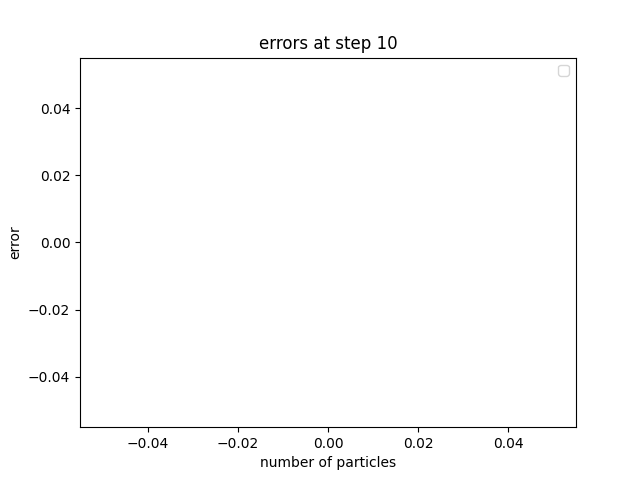
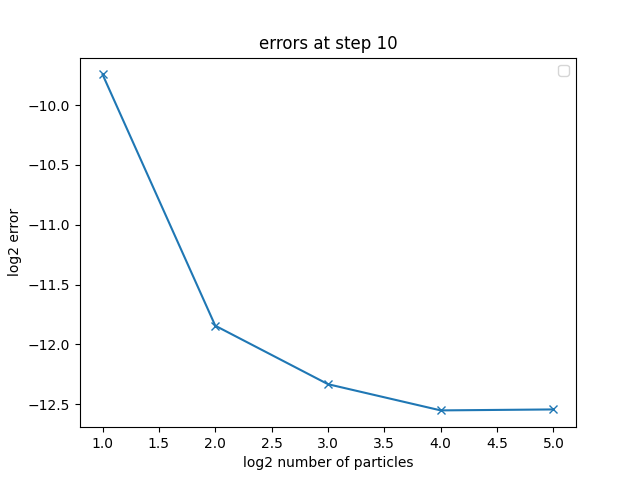
added more complex initial condition

diff --git a/config.py b/config.py
@@ -2,10 +2,12 @@
 
 import numpy as np
 from dataclasses import dataclass
+from math import pi, sin
+from utils.diagnostics import diagnostics
 
 ### grid ######################################################################
 # number of particles in the x and y dimension
-no_particles_x = 40
+no_particles_x = 10
 no_particles_y = no_particles_x
 
 # interval where the x and y dimension are contained
@@ -21,7 +23,33 @@ border = 2
 
 # number of layers that the border has, spaced with same spacing as
 # inside particles
-border_thickness = 0
+border_thickness = 1
+
+
+# can be used to throw an arbitrary border condition onto the border
+def set_border(x, y):
+    # bottom or left border, set to 0
+    if (x <= -border) or (y <= -border):
+        result = 0.0
+
+    # edge at then end, set to 1
+    elif (x > border) and (y > border):
+        result = 1.0
+
+    # border on the right, put sine there
+    elif (x > border):
+        result = sin(pi/(4*border) * y + pi/4)
+
+    # border at the top, put another sine there
+    elif (y > border):
+        result = sin(pi/(4*border) * x + pi/4)
+
+    # this should never occur
+    else:
+        result = -100
+
+    diagnostics.log_string(f"at {x},{y}: {result}")
+    return result
 
 # DO NOT TOUCH
 # positions without border, spacing between particles
@@ -39,7 +67,7 @@ no_particles = (no_particles_x + 2 * border_thickness) * (
 t0 = 0.0
 
 # end time
-t1 = 5.0
+t1 = 20.0
 
 # number of steps
 steps_per_sec = 15
@@ -91,19 +119,38 @@ compared_files = np.array(
         # "heat_equation_analytical/solutions/solution_15x15_r1_5",
         # "heat_equation_analytical/solutions/solution_20x20_r1_5",
         # # "heat_equation/solutions/solution_3x3_r1_5",
-        "heat_equation/solutions/solution_5x5_r1_5",
-        "heat_equation/solutions/solution_10x10_r1_5",
+        # "heat_equation/solutions/solution_5x5_r1_5",
+        # "heat_equation/solutions/solution_10x10_r1_5",
         # "heat_equation/solutions/solution_15x15_r1_5",
-        "heat_equation/solutions/solution_20x20_r1_5",
+        # "heat_equation/solutions/solution_20x20_r1_5",
         # "heat_equation/solutions/solution_40x40_r1_5",
+        "heat_equation/solutions/solution_2x2_r1_5",
+        "heat_equation_analytical/solutions/solution_2x2_r1_5",
+        "heat_equation/solutions/solution_4x4_r1_5",
+        "heat_equation_analytical/solutions/solution_4x4_r1_5",
+        "heat_equation/solutions/solution_8x8_r1_5",
+        "heat_equation_analytical/solutions/solution_8x8_r1_5",
+        "heat_equation/solutions/solution_16x16_r1_5",
+        "heat_equation_analytical/solutions/solution_16x16_r1_5",
+        "heat_equation/solutions/solution_32x32_r1_5",
+        "heat_equation_analytical/solutions/solution_32x32_r1_5",
+        # "heat_equation/solutions/solution_3x3_r1_5",
+        # "heat_equation_analytical/solutions/solution_3x3_r1_5",
+        # "heat_equation/solutions/solution_5x5_r1_5",
+        # "heat_equation_analytical/solutions/solution_5x5_r1_5",
+        # "heat_equation/solutions/solution_9x9_r1_5",
+        # "heat_equation_analytical/solutions/solution_9x9_r1_5",
+        # "heat_equation/solutions/solution_17x17_r1_5",
+        # "heat_equation_analytical/solutions/solution_17x17_r1_5",
     ]
 )
+
 # points at which the solution should be compared (in steps)
 snapshots = np.array(
     [
         10,
-        100,
-        299,
+        40,
+        74,
     ]
 )
 

diff --git a/utils/generate_border.py b/utils/generate_border.py
@@ -5,17 +5,18 @@ from config import (
     no_particles_y,
     border_thickness,
     border,
+    set_border,
     dx,
     dy,
 )
 
+from utils.diagnostics import diagnostics
 
 # takes the limits and wraps a border of a given strength around everything
 def generate_border(
     r_0,
     attribute,
     p_0,
-    default_attribute,
     is_border_particle,
 ):
     x_positions = np.linspace(
@@ -24,15 +25,17 @@ def generate_border(
         no_particles_x + 2 * border_thickness,
     )
     y_positions = np.linspace(dy, border_thickness * dy, border_thickness)
+    diagnostics.log_full_np_array(x_positions)
+    diagnostics.log_full_np_array(y_positions)
     for _, x in enumerate(x_positions):
         for _, y in enumerate(y_positions):
             r_0.extend([x, -border - y])
-            attribute.extend(default_attribute)
+            attribute.extend([set_border(x, - border - y)])
             p_0.extend([1])
             is_border_particle.extend([True])
 
             r_0.extend([x, border + y])
-            attribute.extend(default_attribute)
+            attribute.extend([set_border(x, border + y)])
             p_0.extend([1])
             is_border_particle.extend([True])
 
@@ -42,16 +45,19 @@ def generate_border(
         +border,
         no_particles_y,
     )
+    diagnostics.log_full_np_array(x_positions)
+    diagnostics.log_full_np_array(y_positions)
     for _, y in enumerate(y_positions):
         for _, x in enumerate(x_positions):
             r_0.extend([-border - x, y])
-            attribute.extend(default_attribute)
+            attribute.extend([set_border(- border - x, y)])
             p_0.extend([1])
             is_border_particle.extend([True])
 
             r_0.extend([border + x, y])
-            attribute.extend(default_attribute)
+            attribute.extend([set_border(border + x, y)])
             p_0.extend([1])
             is_border_particle.extend([True])
 
     return r_0, attribute, p_0, is_border_particle
+

diff --git a/heat_equation/main.py b/heat_equation/main.py
@@ -5,6 +5,7 @@ import numpy as np
 from scipy.integrate import solve_ivp
 from math import sin, cos, pi
 from random import uniform, seed
+from tqdm import tqdm
 
 import heat_equation.dynamics as heat_equation
 import heat_equation_analytical.dynamics as heat_equation_analytical
@@ -40,9 +41,9 @@ def main():
         for _, x in enumerate(x_positions):
             r_0.extend([x, y])
             # T_0.extend([0.1 * cos(8 * pi * x) + noise(0.05)])
-            T_0.extend([noise(0.1)])
+            # T_0.extend([noise(0.1)])
             # T_0.extend([0.3 * sin(14 * x) + 0.3 * cos(14 * y) + noise(0.03)])
-            # T_0.extend([heat_equation_analytical.dynamics(t0, x, y)])
+            T_0.extend([heat_equation_analytical.dynamics(t0, x, y) + noise(0.01)])
             # T_0.extend([5 * gauss(np.zeros(2), np.array([x, y]), 1.5 * border)])
             is_border_particle.extend([False])
 
@@ -51,7 +52,7 @@ def main():
     # just pass through and ignore afterwards
     dummy_pressure = []
     r_0, T_0, _, is_border_particle = generate_border(
-        r_0, T_0, dummy_pressure, base_temp, is_border_particle
+        r_0, T_0, dummy_pressure, is_border_particle
     )
 
     r_0 = np.array(r_0, dtype=float)
@@ -65,9 +66,17 @@ def main():
     t_eval = np.linspace(t0, t1, num=no_steps)
 
     # solve
+    pbar = 0
+    # with tqdm(total=t_span[1], unit="t") as pbar:
     diagnostics.time_ode()
     sol = solve_ivp(
-        fun=lambda t, y: heat_equation.dynamics(t, y, is_border_particle),
+        fun=lambda t, y: heat_equation.dynamics(
+            t,
+            y,
+            is_border_particle,
+            pbar,
+            t_eval,
+        ),
         t_span=t_span,
         y0=y_0,
         method="RK23",

diff --git a/utils/compare.py b/utils/compare.py
@@ -19,8 +19,6 @@ from config import (
 # takes n csv files and calculates the MSE between all combinations of them
 def compare_MSE():
     errors = np.zeros((compared_files.size, compared_files.size))
-    plot_errors = []
-    plot_no_particles = []
 
     # derive names for table from file names
     file_names = []
@@ -33,13 +31,18 @@ def compare_MSE():
 
     width = max(len(file) for file in file_names)
 
-    print()
-    print(" " * (width + 3), end="")
-    print(" | ".join(f"{file_name:<{width}}" for file_name in file_names))
-
     grid_points = np.linspace(-border, border, 21)
 
     for frame in snapshots:
+        print()
+        print(f"run for step {frame}")
+        print(" " * (width + 3), end="")
+        print(" | ".join(f"{file_name:<{width}}" for file_name in file_names))
+
+        plot_errors = []
+        plot_no_particles = []
+        mse = []
+
         for index_1, file_1 in enumerate(compared_files):
             result_1 = get_values_from_npz(file_1)
             points_1 = griddata(
@@ -83,11 +86,12 @@ def compare_MSE():
             print(" | ".join(f"{error:<{width}.5f}" for error in errors[index_1]))
 
         # convergence plot
-        plt.plot(plot_no_particles, plot_errors, "-x")
+        plt.clf()
+        plt.plot(np.log2(plot_no_particles), np.log2(plot_errors), "-x")
 
         plt.legend()
-        plt.xlabel("number of particles")
-        plt.ylabel("error")
+        plt.xlabel("log2 number of particles")
+        plt.ylabel("log2 error")
         plt.title(f"errors at step {frame}")
         plt.savefig(f"comparisons/error_graph_{frame}.png")
 

diff --git a/navier_stokes_compressible/main.py b/navier_stokes_compressible/main.py
@@ -37,13 +37,8 @@ def main():
             # add wall particle flag
             is_border_particle.extend([False])
 
-    border_velocity = [0, 0]
-    r_0, v_0, rho_0, is_border_particle = generate_border(
-        r_0,
-        v_0,
-        rho_0,
-        border_velocity,
-        is_border_particle,
+    r_0, rho_0, p_0, is_border_particle = generate_border(
+        r_0, rho_0, p_0, is_border_particle,
     )
 
     r_0 = np.array(r_0, dtype=float)

diff --git a/heat_equation/dynamics.py b/heat_equation/dynamics.py
@@ -9,9 +9,10 @@ from kernels.gauss import gauss, nabla, laplace
 from config import no_particles, heat_alpha
 
 
-def dynamics(t, y, is_border_particle):
+def dynamics(t, y, is_border_particle, pbar, t_span):
     diagnostics.time_dynamics()
 
+    # pbar.update(t - pbar.n)
     y_dot = np.zeros(np.size(y))
     r_dot = np.zeros((no_particles, 2))
     T_dot = np.zeros((no_particles, 1))

diff --git a/navier_stokes_incompressible/main.py b/navier_stokes_incompressible/main.py
@@ -47,9 +47,8 @@ def main():
             # add wall particle flag
             is_border_particle.extend([False])
 
-    border_velocity = [0, 0]
     r_0, v_0, p_0, is_border_particle = generate_border(
-        r_0, v_0, p_0, border_velocity, is_border_particle
+        r_0, v_0, p_0, is_border_particle
     )
 
     r_0 = np.array(r_0, dtype=float)
